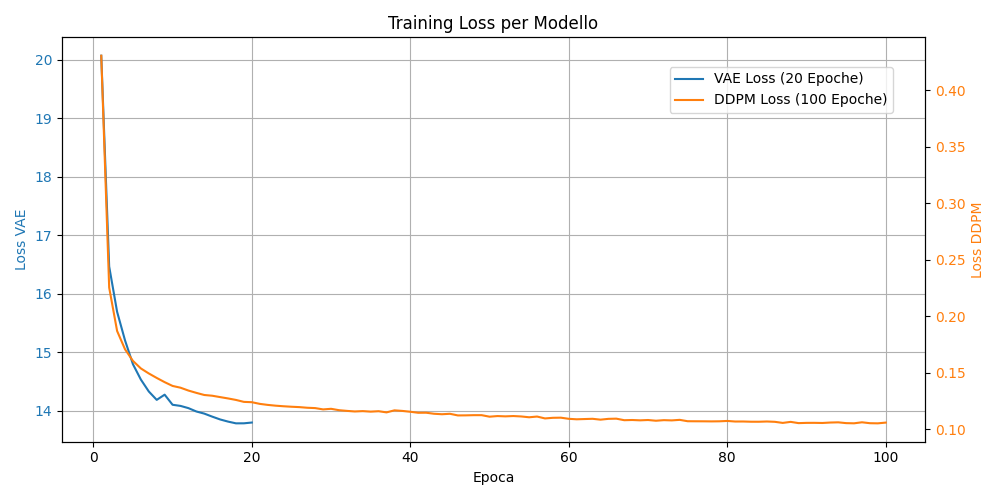
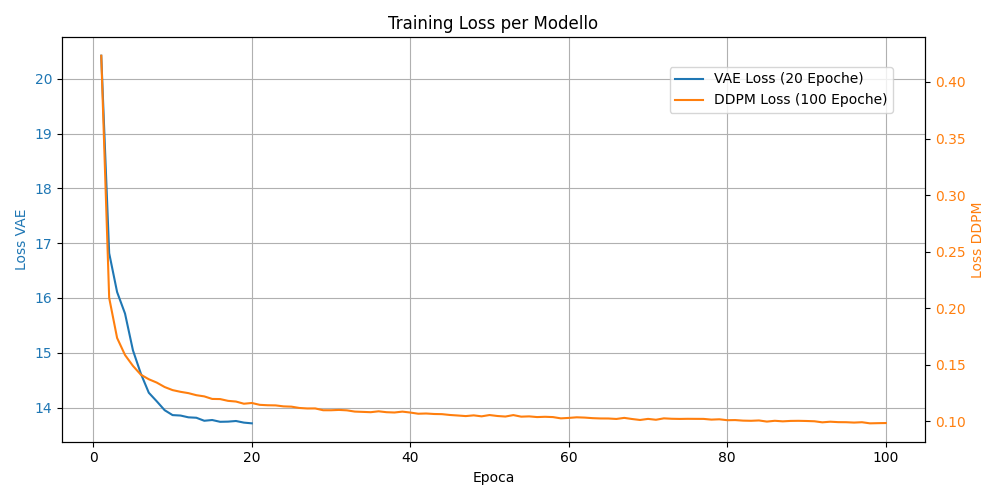
[UPD] training and metrics

diff --git a/src/main.py b/src/main.py
@@ -2,6 +2,7 @@ import os
 import time
 import copy
 import torch
+import numpy as np
 from torch import optim
 from torch.utils.data import DataLoader
 import torchvision.transforms as transforms
@@ -25,7 +26,10 @@ def main():
     
     data_transform = transforms.Compose([transforms.ToTensor()])
     train_dataset = DataClass(split='train', transform=data_transform, download=True, root='./data')
+    test_dataset = DataClass(split='test', transform=data_transform, download=True, root='./data') # Aggiunto test set
+    
     train_loader = DataLoader(dataset=train_dataset, batch_size=128, shuffle=True)
+    test_loader = DataLoader(dataset=test_dataset, batch_size=1, shuffle=False)
 
     # --- 2. INIZIALIZZAZIONE MODELLI ---
     epochs = 100
@@ -46,7 +50,6 @@ def main():
     print(f"{'='*50}")
     
     for epoch in range(epochs):
-        # Il VAE si allena solo fino all'epoca 20
         if epoch < 20:
             vae.train()
             running_loss_vae = 0.0
@@ -57,7 +60,6 @@ def main():
         for images, _ in train_loader:
             images = images.to(device)
 
-            # Training VAE (limitato)
             if epoch < 20:
                 optimizer_vae.zero_grad()
                 vae_noisy_img = apply_noise_levels(images, levels=[0.3])[0.3]
@@ -67,7 +69,6 @@ def main():
                 optimizer_vae.step()
                 running_loss_vae += loss_v.item()
 
-            # Training DDPM (completo)
             optimizer_ddpm.zero_grad()
             t = torch.randint(0, ddpm.time_steps, (images.size(0),), device=device, dtype=torch.long)
             epsilon = torch.randn_like(images)
@@ -78,100 +79,121 @@ def main():
             optimizer_ddpm.step()
             running_loss_ddpm += loss_d.item()
 
-        # --- GESTIONE DEI LOG E DEI SALVATAGGI ---
         loss_history["DDPM"].append(running_loss_ddpm / len(train_loader))
-
         if epoch < 20:
             loss_history["VAE"].append(running_loss_vae / len(train_loader))
             print(f"Epoca [{epoch+1:3d}/{epochs}] | Loss VAE: {loss_history['VAE'][-1]:.4f} | Loss DDPM: {loss_history['DDPM'][-1]:.4f}")
         else:
             print(f"Epoca [{epoch+1:3d}/{epochs}] | Loss DDPM: {loss_history['DDPM'][-1]:.4f}")
 
-        # Traguardo 20 epoche
         if epoch + 1 == 20:
-            print(f"\n{'-'*50}")
-            print(" | 20 EPOCHE RAGGIUNTE |")
-            print(" Salvataggio dello stato dei modelli su disco...")
             vae_final_weights = copy.deepcopy(vae.state_dict())
             ddpm_20_weights = copy.deepcopy(ddpm.network.state_dict())
-            
             torch.save(vae_final_weights, "results/vae_20_epochs.pth")
             torch.save(ddpm_20_weights, "results/ddpm_20_epochs.pth")
-            print(" VAE DISATTIVATO. Ha completato il suo addestramento.")
-            print(f"{'-'*50}")
-            print(f" INIZIO ADDESTRAMENTO ESCLUSIVO DDPM (Fase 2: 80 Epoche)")
-            print(f"{'-'*50}\n")
+            print(f"\n{'*'*20} TRAGUARDO 20 EPOCHE {'*'*20}\n")
 
-    # Fine addestramento DDPM
-    print(f"\n{'-'*50}")
-    print(" | 100 EPOCHE RAGGIUNTE |")
-    print(" Salvataggio dello stato finale del DDPM su disco...")
     ddpm_100_weights = copy.deepcopy(ddpm.network.state_dict())
     torch.save(ddpm_100_weights, "results/ddpm_100_epochs.pth")
-    print(f"{'-'*50}\n")
-
     plot_training_curves(loss_history)
 
-    # --- 4. INFERENZA COMPARATIVA ---
-    print("\nInizio fase di inferenza e calcolo metriche...")
-    test_image = train_dataset[0][0].unsqueeze(0).to(device)
+    # --- 4. VALUTAZIONE STATISTICA SU TUTTO IL TEST SET ---
+    print("\nInizio valutazione statistica sul dataset di test...")
     noise_levels = [0.1, 0.3, 0.5]
-    noisy_images = apply_noise_levels(test_image, noise_levels)
-
-    livello_a_timestep = {
-        0.1: int(ddpm.time_steps * 0.15),
-        0.3: int(ddpm.time_steps * 0.40),
-        0.5: int(ddpm.time_steps * 0.70)
+    livello_a_timestep = {0.1: int(ddpm.time_steps * 0.15), 0.3: int(ddpm.time_steps * 0.40), 0.5: int(ddpm.time_steps * 0.70)}
+    
+    # Struttura per accumulare i dati: stats[modello][livello][metrica] = []
+    model_stats = {
+        "VAE_20": {lvl: {"MSE": [], "PSNR": [], "SSIM": [], "Time": []} for lvl in noise_levels},
+        "DDPM_20": {lvl: {"MSE": [], "PSNR": [], "SSIM": [], "Time": []} for lvl in noise_levels},
+        "DDPM_100": {lvl: {"MSE": [], "PSNR": [], "SSIM": [], "Time": []} for lvl in noise_levels}
     }
 
-    # Strutture dati per salvare i risultati
-    recon_v, recon_d20, recon_d100 = {}, {}, {}
-    met_v, met_d20, met_d100 = {}, {}, {}
-    tempi_v, tempi_d20, tempi_d100 = {}, {}, {}
+    # Helper per i test
+    def run_eval_batch(model_key, weights, is_vae=False):
+        if is_vae:
+            vae.load_state_dict(weights)
+            vae.eval()
+        else:
+            ddpm.network.load_state_dict(weights)
+            ddpm.eval()
 
-    # 4.1 Inferenza VAE (unico modello a 20 epoche)
-    vae.load_state_dict(vae_final_weights)
-    vae.eval()
-    with torch.no_grad():
-        for level in noise_levels:
-            noisy_img = noisy_images[level]
-            start_t = time.perf_counter()
-            r_vae, _, _ = vae(noisy_img)
-            tempi_v[level] = time.perf_counter() - start_t
-            recon_v[level] = r_vae
-            met_v[level] = calculate_metrics(test_image, r_vae)
-
-    # Funzione helper per le due iterazioni del DDPM
-    def inferenza_ddpm(pesi):
-        ddpm.network.load_state_dict(pesi)
-        ddpm.eval()
-        r_d, m_d, t_d = {}, {}, {}
         with torch.no_grad():
-            for level in noise_levels:
-                noisy_img = noisy_images[level]
-                start_t = time.perf_counter()
-                start_step = livello_a_timestep[level]
-                r_diff = ddpm.sample(noisy_img, start_t=start_step) 
-                t_d[level] = time.perf_counter() - start_t
-                r_d[level] = r_diff
-                m_d[level] = calculate_metrics(test_image, r_diff)
-        return r_d, m_d, t_d
+            # Testiamo su 100 campioni per bilanciare precisione e tempo
+            for i, (img, _) in enumerate(test_loader):
+                if i >= 100: break 
+                img = img.to(device)
+                noisy_imgs = apply_noise_levels(img, noise_levels)
 
-    # 4.2 Inferenza DDPM a 20 e 100 epoche
-    print("Eseguendo test DDPM a 20 epoche...")
-    recon_d20, met_d20, tempi_d20 = inferenza_ddpm(ddpm_20_weights)
+                for lvl in noise_levels:
+                    start_t = time.perf_counter()
+                    if is_vae:
+                        recon, _, _ = vae(noisy_imgs[lvl])
+                    else:
+                        recon = ddpm.sample(noisy_imgs[lvl], start_t=livello_a_timestep[lvl])
+                    
+                    elapsed = time.perf_counter() - start_t
+                    m = calculate_metrics(img, recon)
+                    
+                    model_stats[model_key][lvl]["MSE"].append(m["MSE"])
+                    model_stats[model_key][lvl]["PSNR"].append(m["PSNR"])
+                    model_stats[model_key][lvl]["SSIM"].append(m["SSIM"])
+                    model_stats[model_key][lvl]["Time"].append(elapsed)
 
-    print("Eseguendo test DDPM a 100 epoche...")
-    recon_d100, met_d100, tempi_d100 = inferenza_ddpm(ddpm_100_weights)
+    print("Valutazione VAE 20 epoche...")
+    run_eval_batch("VAE_20", vae_final_weights, is_vae=True)
+    print("Valutazione DDPM 20 epoche...")
+    run_eval_batch("DDPM_20", ddpm_20_weights, is_vae=False)
+    print("Valutazione DDPM 100 epoche...")
+    run_eval_batch("DDPM_100", ddpm_100_weights, is_vae=False)
 
-    plot_inference_results_comparative(
-        test_image, noisy_images, 
-        recon_v, recon_d20, recon_d100, 
-        met_v, met_d20, met_d100, 
-        tempi_v, tempi_d20, tempi_d100
-    )
+    # --- 5. STAMPA E SALVATAGGIO TABELLA FINALE ---
+    log_path = "results/final_metrics_table.txt"
+    with open(log_path, "w") as f:
+        header = f"{'Modello':<12} | {'Noise':<5} | {'MSE (avg)':<10} | {'PSNR (avg)':<10} | {'SSIM (avg)':<10} | {'Time (avg)':<10}"
+        print(f"\n{header}")
+        f.write(header + "\n" + "-"*80 + "\n")
+        
+        for m_key in model_stats:
+            for lvl in noise_levels:
+                res = model_stats[m_key][lvl]
+                mse_m, mse_s = np.mean(res["MSE"]), np.std(res["MSE"])
+                psnr_m, psnr_s = np.mean(res["PSNR"]), np.std(res["PSNR"])
+                ssim_m, ssim_s = np.mean(res["SSIM"]), np.std(res["SSIM"])
+                time_m = np.mean(res["Time"])
+                
+                row = f"{m_key:<12} | {lvl:<5.1f} | {mse_m:.4f}±{mse_s:.3f} | {psnr_m:.2f}±{psnr_s:.2f} | {ssim_m:.3f}±{ssim_s:.3f} | {time_m:.4f}s"
+                print(row)
+                f.write(row + "\n")
+
+    # --- 6. PLOT QUALITATIVO (Singola Immagine come da richiesta originale) ---
+    print("\nGenerazione plot qualitativo finale...")
+    # Riassegna per l'ultimo plot qualitativo (logica originale intatta)
+    test_img_vis = test_dataset[0][0].unsqueeze(0).to(device)
+    noisy_vis = apply_noise_levels(test_img_vis, noise_levels)
     
-    print("\nEsperimento completo! Grafici e pesi salvati in results/.")
+    # Riutilizziamo le funzioni helper per estrarre i dati per il plot
+    def get_single_inference(weights, is_vae=False):
+        if is_vae: vae.load_state_dict(weights); vae.eval()
+        else: ddpm.network.load_state_dict(weights); ddpm.eval()
+        
+        r, m, t = {}, {}, {}
+        with torch.no_grad():
+            for lvl in noise_levels:
+                start = time.perf_counter()
+                out = vae(noisy_vis[lvl])[0] if is_vae else ddpm.sample(noisy_vis[lvl], start_t=livello_a_timestep[lvl])
+                t[lvl] = time.perf_counter() - start
+                r[lvl] = out
+                m[lvl] = calculate_metrics(test_img_vis, out)
+        return r, m, t
+
+    rv, mv, tv = get_single_inference(vae_final_weights, is_vae=True)
+    rd20, md20, td20 = get_single_inference(ddpm_20_weights, is_vae=False)
+    rd100, md100, td100 = get_single_inference(ddpm_100_weights, is_vae=False)
+
+    plot_inference_results_comparative(test_img_vis, noisy_vis, rv, rd20, rd100, mv, md20, md100, tv, td20, td100)
+    
+    print(f"\nEsperimento completo! Tabella salvata in: {log_path}")
 
 if __name__ == "__main__":
     main()